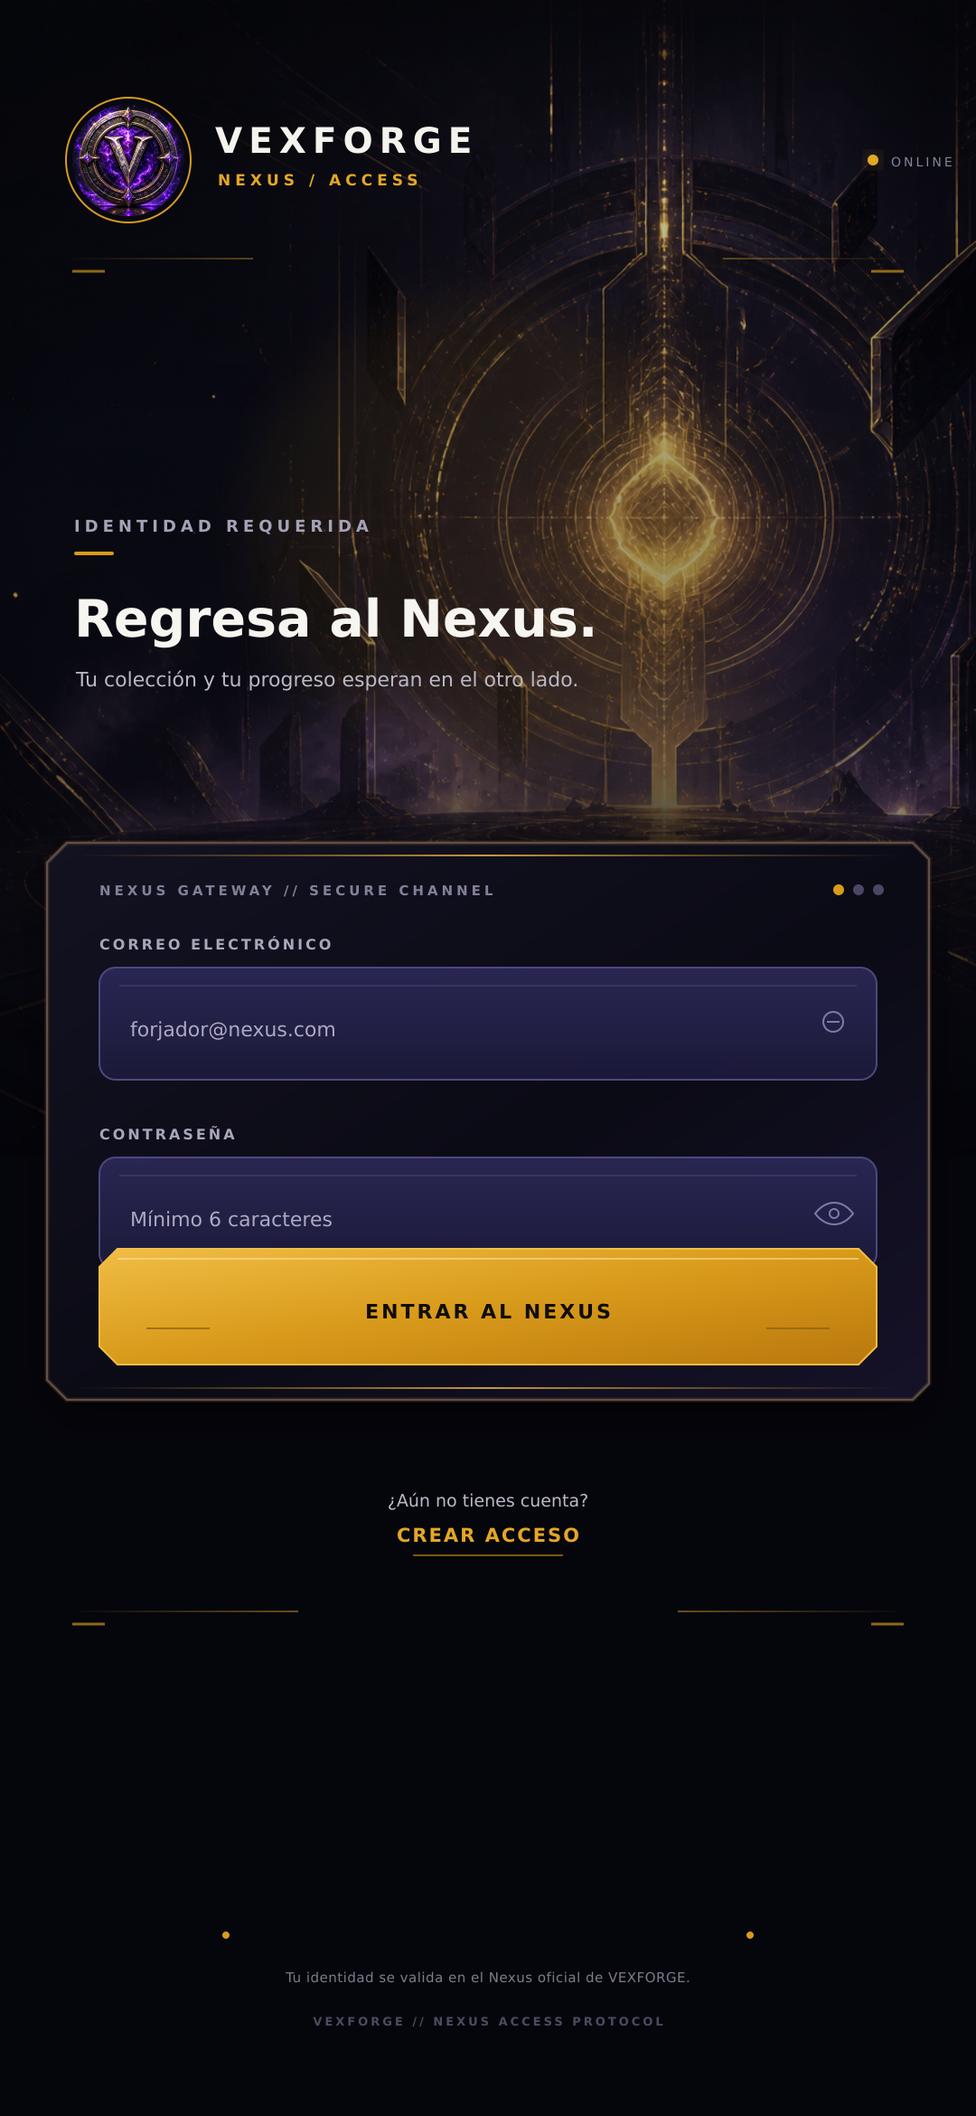
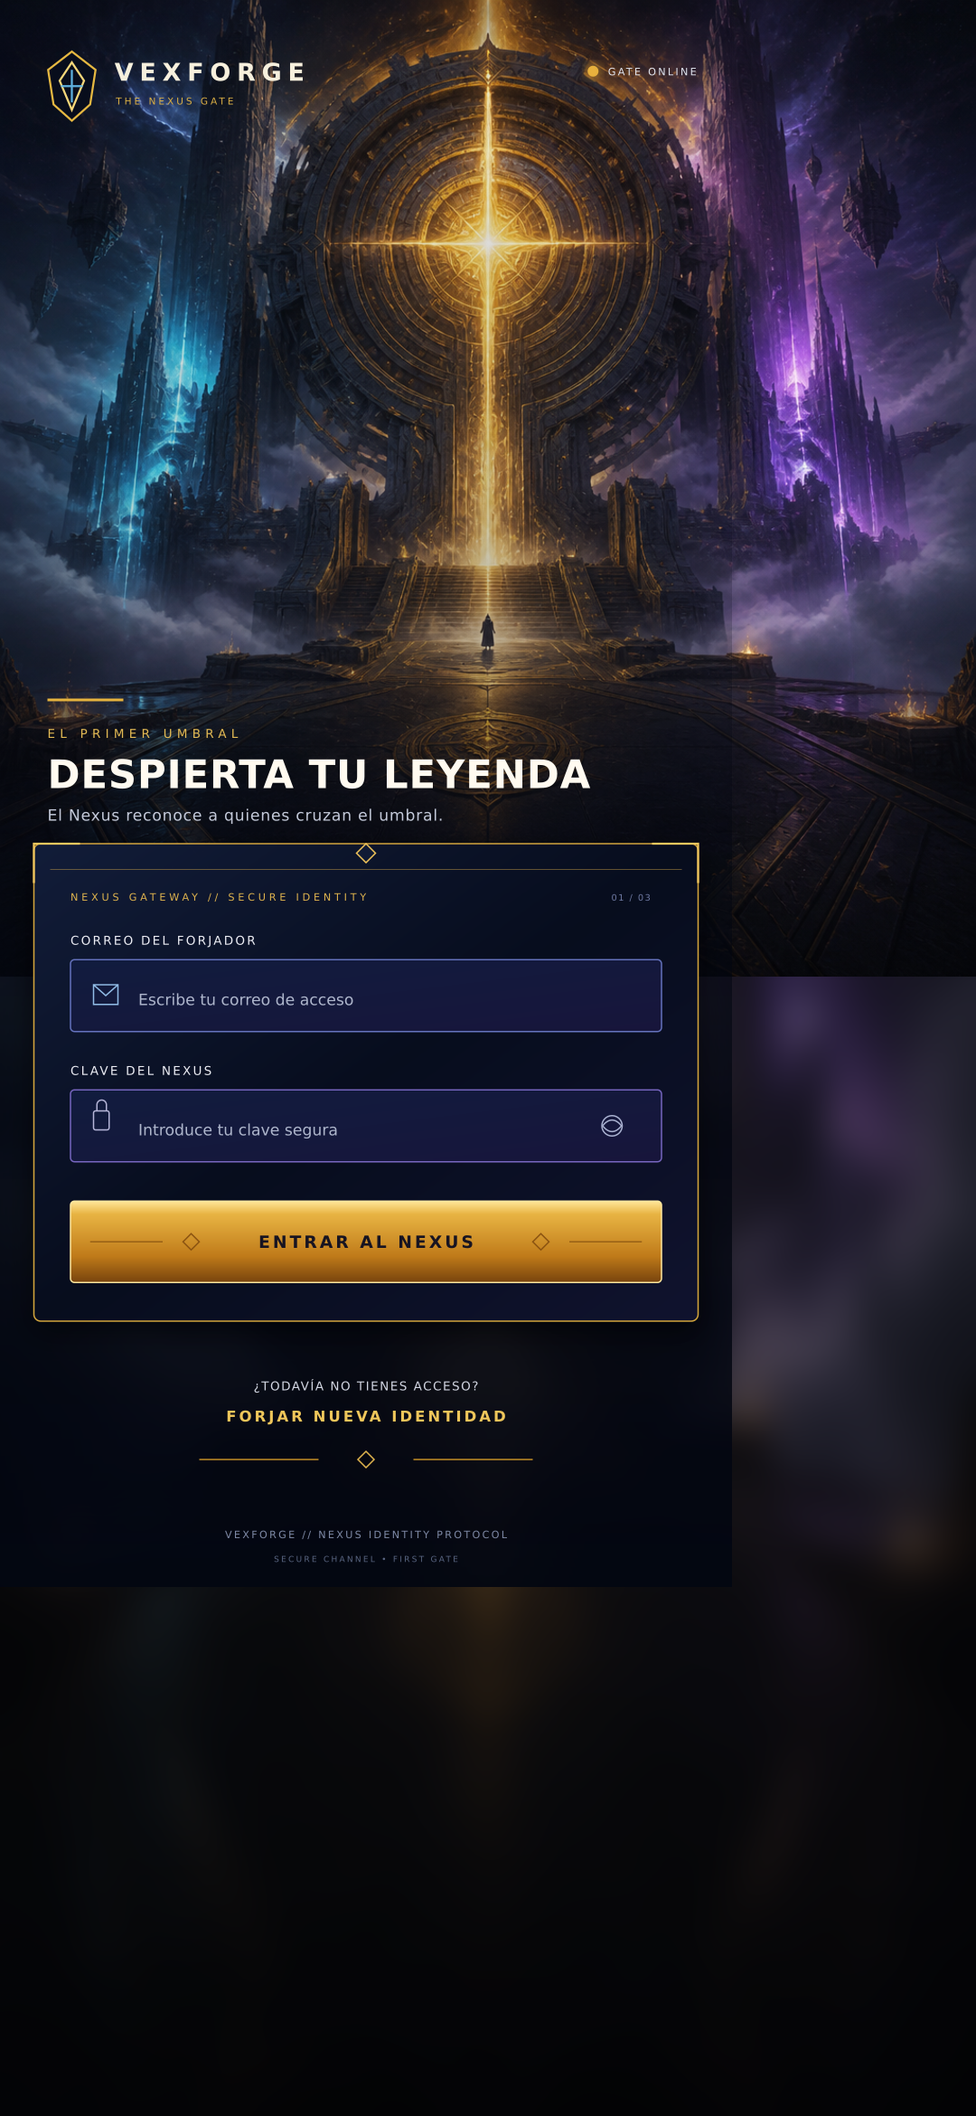
[skip ci] VEXFORGE native Home scene and official Auth visual sync

diff --git a/mobile/app/auth.tsx b/mobile/app/auth.tsx
@@ -155,12 +155,12 @@ export default function AuthScreen() {
                   <Text style={[styles.brandCode, { color: colors.accent }]}>NEXUS / ACCESS</Text>
                 </View>
               </View>
-              <Text style={[styles.eyebrow, { color: colors.accent }]}>SECURE ENTRY / AUTH</Text>
+              <Text style={[styles.eyebrow, { color: colors.accent }]}>NEXUS GATEWAY / SECURE IDENTITY</Text>
               <Text style={[styles.title, { color: colors.foreground }]}>
-                {mode === 'signin' ? 'Regresa al Nexus.' : 'Forja tu identidad.'}
+                {mode === 'signin' ? 'Despierta tu leyenda.' : 'Forja tu identidad.'}
               </Text>
               <Text style={[styles.subtitle, { color: colors.mutedForeground }]}>
-                {mode === 'signin' ? 'Tu colección y tu progreso esperan al otro lado.' : 'Registra un Forjador para comenzar tu recorrido.'}
+                {mode === 'signin' ? 'El Nexus reconoce a quienes cruzan el umbral.' : 'Registra un Forjador para comenzar tu recorrido.'}
               </Text>
               <View
                 testID="auth-status-rail"
@@ -178,7 +178,7 @@ export default function AuthScreen() {
             </View>
 
             <View style={styles.form} accessibilityLabel="Acciones de acceso de VEXFORGE">
-              <Text style={[styles.fieldLabel, { color: colors.mutedForeground }]}>CORREO ELECTRÓNICO</Text>
+               <Text style={[styles.fieldLabel, { color: colors.mutedForeground }]}>CORREO DEL FORJADOR</Text>
               <TextInput
                 testID="auth-email"
                 accessibilityLabel="Correo electrónico"
@@ -191,7 +191,7 @@ export default function AuthScreen() {
                 autoCorrect={false}
                 keyboardType="email-address"
                 textContentType="emailAddress"
-                placeholder="forjador@ejemplo.com"
+                 placeholder="Escribe tu correo de acceso"
                 placeholderTextColor={`${colors.mutedForeground}99`}
                 style={[styles.emailInput, { color: colors.foreground, backgroundColor: `${colors.panelStrong}F2`, borderColor: `${colors.accent}42` }]}
                 editable={!authLoading}
@@ -199,7 +199,7 @@ export default function AuthScreen() {
                 selectionColor={colors.accent}
               />
 
-              <Text style={[styles.fieldLabel, { color: colors.mutedForeground }]}>CONTRASEÑA</Text>
+               <Text style={[styles.fieldLabel, { color: colors.mutedForeground }]}>CLAVE DEL NEXUS</Text>
               <TextInput
                 testID="auth-password"
                 accessibilityLabel="Contraseña"
@@ -212,7 +212,7 @@ export default function AuthScreen() {
                 autoCorrect={false}
                 secureTextEntry={!showPassword}
                 textContentType="password"
-                placeholder="Mínimo 6 caracteres"
+                 placeholder="Introduce tu clave segura"
                 placeholderTextColor={`${colors.mutedForeground}99`}
                 style={[styles.passwordInput, { color: colors.foreground, backgroundColor: `${colors.panelStrong}F2`, borderColor: `${colors.accent}42` }]}
                 editable={!authLoading}

diff --git a/mobile/app/(tabs)/index.tsx b/mobile/app/(tabs)/index.tsx
@@ -21,7 +21,6 @@ import { ScreenShell } from '@/components/ScreenShell';
 import { ForgeIconName, VexIcon } from '@/components/ForgeIcon';
 import { getCardIdentityVisual } from '@/constants/cardIdentity';
 import { DOMAIN_IDENTITY, DEPTH, MOTION, VISUAL_TOKENS } from '@/constants/experience';
-import { CANONICAL_BACKGROUNDS } from '@/constants/visual';
 import { useColors } from '@/hooks/useColors';
 import { useGame } from '@/context/GameContext';
 import {
@@ -665,9 +664,6 @@ export default function ForgeScreen() {
   const homeIdentity = DOMAIN_IDENTITY.foja;
   const orbitReveal = MOTION.reveal;
   const orbitDepth = DEPTH.surface;
-  const homeSceneAsset = CANONICAL_BACKGROUNDS.home;
-  const homeSceneSource = typeof homeSceneAsset === 'string' ? { uri: homeSceneAsset } : homeSceneAsset;
-
   const navigate = (route: HomeRoute) => {
     void Haptics.selectionAsync().catch(() => undefined);
     if (route === '/') router.replace('/');
@@ -701,12 +697,14 @@ export default function ForgeScreen() {
         >
            <View style={[styles.heroStage, { backgroundColor: identityVisual?.overlay ?? colors.ink, height: heroHeight }]}>
              <View pointerEvents="none" style={styles.heroSceneViewport}>
-               {homeSceneSource ? (
+               {identityCard?.image_url && identityAssetState !== 'error' ? (
                  <Animated.Image
-                   source={homeSceneSource}
-                   style={[styles.heroSceneReference, heroParallaxStyle]}
+                   source={{ uri: identityCard.image_url }}
+                   style={[styles.heroIdentityBackdrop, heroParallaxStyle]}
                    resizeMode="cover"
-                   accessibilityLabel="Escena aprobada de referencia visual del Home"
+                   accessibilityLabel="Artwork canónico de la identidad integrado en la escena viva del Home"
+                   onLoad={() => setIdentityAssetState('ready')}
+                   onError={() => setIdentityAssetState('error')}
                  />
                ) : null}
                <Animated.View style={[styles.heroSceneAtmosphere, sceneAtmosphereStyle]}>
@@ -1207,7 +1205,7 @@ const styles = StyleSheet.create({
   scrollContent: { gap: 0 },
   heroStage: { overflow: 'hidden', position: 'relative' },
   heroSceneViewport: { ...StyleSheet.absoluteFillObject, overflow: 'hidden' },
-  heroSceneReference: { height: '112%', left: '-6%', position: 'absolute', top: '-6%', width: '112%' },
+  heroIdentityBackdrop: { height: '124%', left: '-26%', opacity: 0.34, position: 'absolute', top: '-14%', width: '152%' },
   heroSceneAtmosphere: { borderRadius: 220, height: 360, position: 'absolute', right: -154, top: 52, width: 360 },
   heroSceneMist: { bottom: -80, height: 360, left: -80, position: 'absolute', width: '120%' },
   identityStage: { bottom: 36, borderBottomLeftRadius: 148, borderTopLeftRadius: 148, borderWidth: 1, borderRightWidth: 0, height: 432, overflow: 'hidden', position: 'absolute', right: -36, width: 286, zIndex: 1 },

diff --git a/mobile/constants/visual.ts b/mobile/constants/visual.ts
@@ -19,7 +19,9 @@ export const OFFICIAL_ASSETS = {
 } as const;
 
 export const CANONICAL_BACKGROUNDS = {
-  home: require('../assets/images/home-reference-scene.png'),
+  // Home is a native scene. Its approved reference remains in the registry,
+  // while the runtime uses live identity artwork plus authored depth layers.
+  home: null,
   auth: require('../assets/images/vexforge-auth-nexus-final.png'),
   pvp: null,
   missions: null,

diff --git a/CONTINUITY.md b/CONTINUITY.md
@@ -1,3 +1,19 @@
+## 2026-09-15 — VE-MOB-AUTH + VE-MOB-3 HOME — OFFICIAL VISUAL SYNC / IMPLEMENTED_UNVERIFIED
+
+- **ENTORNO ACTIVO:** aplicación Android en `mobile/**`; la web permanece congelada.
+- **AUTORIDAD:** fila `ACTIVE` `public.vexforge_official_documents / vexforge_home_world_system_protocol_v3`, versión V2.3, consultada por HTTPS; hash de contenido registrado en el Asset Registry.
[1 lines of base64/hex data omitted]
+- **AUTH IMPLEMENTACIÓN:** `CANONICAL_BACKGROUNDS.auth` continúa conectado al runtime y `auth.tsx` conserva controles nativos reales: Supabase Auth, registro, recuperación, OAuth, recordar sesión, show/hide password, feedback, teclado, safe area y navegación. El copy visible se alineó con la referencia aprobada sin convertirla en un control estático.
[1 lines of base64/hex data omitted]
+- **HOME IMPLEMENTACIÓN:** Home ahora sigue literalmente la ley del protocolo: escena nativa viva con `Animated.Image` del artwork canónico de la identidad cargado desde Supabase Storage, parallax limitado, atmósfera, niebla, órbita, pulso, identidad/carta vivas y controles nativos conectados a datos de Supabase y rutas reales. No hay captura estática ni hotspots transparentes.
+- **REGLA CERO GENÉRICOS:** no se añadieron métricas, rutas, cartas, rewards, RPCs, fondos remotos ni resultados ficticios. Los estados no reportados permanecen explícitos.
+- **REGISTRO:** se actualizaron `docs/VE-T0-ANDROID-ASSET-REGISTRY.json`, `docs/visual-assets/vexforge-auth-screen-legendary-1080x2340.md` y `docs/visual-assets/vexforge-home-screen-official.md`; `CANONICAL_BACKGROUNDS.home` queda nulo para impedir el montaje accidental de la referencia.
+- **QA HONESTA:** `IMPLEMENTED_UNVERIFIED`; no hay evidencia física nueva de APK, dispositivo/emulador, teclado, safe area, taps, navegación o rendimiento.
+- **RELEASE GATE:** no se compiló APK, no se inició el workflow Android y no se publicó release, conforme a la instrucción del operador.
+- **PERSISTENCIA:** el cambio se publicará en `main` como un commit mediante GitHub REST/Data API sobre HTTPS, sin credenciales en URLs ni `git push`.
+
+---
+
 ## 2026-09-15 — VE-MOB-VISUAL — HOME VERTICAL REFERENCE / BLOCKED BY GENERATOR DIMENSION
 
 - **ENTORNO ACTIVO:** aplicación Android en `mobile/**`; la web permanece congelada.

diff --git a/docs/VE-MOB-VISUAL-DIMENSION-AUDIT-2026-09-15.md b/docs/VE-MOB-VISUAL-DIMENSION-AUDIT-2026-09-15.md
@@ -12,7 +12,7 @@ Auth y Home están funcionando como rutas Android, pero sus assets locales de es
 | Superficie | Consumidor activo | Dimensión medida | Dimensión esperada | Resultado |
 |---|---|---:|---:|---|
 | Auth | `CANONICAL_BACKGROUNDS.auth` → `auth-reference-scene.png` → `ScreenShell` | `1024 × 1024` | `1080 × 2340` | **No conforme; recorte horizontal severo** |
-| Home | `CANONICAL_BACKGROUNDS.home` → `home-reference-scene.png` → `index.tsx` hero | `1024 × 1024` | referencia `1080 × 2340`; hero actual responsive | **No conforme como escena full-frame; recorte intencional de hero** |
+| Home | `index.tsx` native hero → live identity artwork + authored layers | variable Storage artwork | responsive native composition | **Conforme al protocolo; approved PNG retained as reference only** |
 | Auth alternativa | `vexforge-auth-nexus-final.png` | `1080 × 2340` | `1080 × 2340` | **Correcta en dimensión, no consumida** |
 
 ## Auth — causa exacta
@@ -25,9 +25,15 @@ Existe `mobile/assets/images/vexforge-auth-nexus-final.png` con `1080 × 2340`, 
 
 ## Home — causa exacta
 
-`mobile/app/(tabs)/index.tsx` toma `CANONICAL_BACKGROUNDS.home` y monta el asset en `Animated.Image` dentro de `heroSceneViewport`, con `resizeMode="cover"`. El hero calcula una altura responsive limitada a aproximadamente `570–640 px` y aplica un estilo de escena de `112%` con desplazamiento/parallax.
+`mobile/app/(tabs)/index.tsx` ya no toma `CANONICAL_BACKGROUNDS.home` ni monta
+`home-reference-scene.png`. El hero calcula una altura responsive limitada a
+aproximadamente `570–640 px` y compone la escena con artwork vivo de la
+identidad, gradientes, trazos, atmósfera y parallax limitado.
 
-El archivo activo `home-reference-scene.png` es cuadrado (`1024 × 1024`). En el hero, `cover` conserva el alto del viewport y recorta lateralmente; el `112%` amplía aún más el recorte. Esto explica por qué la pantalla puede funcionar y verse llena, pero no coincide con una escena Android completa de `1080 × 2340`.
+`home-reference-scene.png` permanece registrado como referencia visual aprobada
+de `1024 × 1024`, pero no es una superficie runtime. Por eso no se corrige
+forzando una dimensión vertical ni se deforma la referencia para llenar el
+dispositivo.
 
 Home no es actualmente un fondo full-screen: es una composición nativa desplazable con hero, gradientes, portales, actividad y datos vivos. Por tanto, corregir sólo el tamaño del PNG no resolvería por sí solo la equivalencia visual; habría que decidir si el contrato sigue siendo hero recortado o si se promueve una escena vertical completa y se remaqueta el hero.
 

diff --git a/docs/VE-T0-ANDROID-ASSET-MATRIX.md b/docs/VE-T0-ANDROID-ASSET-MATRIX.md
@@ -6,8 +6,8 @@
 **Entorno activo:** Android en `mobile/**`
 **Baseline observado:** `main` en `624007bb732b40c186495f0a3aab2d872ed86e0f`
 **Fuente activa reconciliada:** `public.vexforge_official_documents`
-(`vexforge_home_world_system_protocol_v3`, `ACTIVE`, V2.2)
[1 lines of base64/hex data omitted]
+(`vexforge_home_world_system_protocol_v3`, `ACTIVE`, V2.3)
[1 lines of base64/hex data omitted]
 
 ## 1. Autoridad y regla de cero genéricos
 
@@ -47,7 +47,7 @@ consumo automático.
 | `mobile/assets/images/decks-reference-scene.png` | Escena de formación | `CANON_ACTIVE` | Deck | `VEXFORGE-ASSET-ATLAS.md` |
 | `mobile/assets/images/profile-reference-scene.png` | Escena de identidad | `CANON_ACTIVE` | Profile | `VEXFORGE-ASSET-ATLAS.md` |
 | `docs/visual-assets/vexforge-profile-screen-premium-1080x2340.png` | Referencia visual Profile aprobada por el operador | `REVIEW_REQUIRED` | Profile | `docs/visual-assets/vexforge-profile-screen-premium-1080x2340.md`, registro T0 |
-| `mobile/assets/images/home-reference-scene.png` | Escena de referencia visual y fondo del hero funcional | `CANON_ACTIVE` | Home | `mobile/app/(tabs)/index.tsx`, `mobile/constants/visual.ts`, `VEXFORGE-ASSET-ATLAS.md` |
+| `mobile/assets/images/home-reference-scene.png` | Referencia visual aprobada; no se monta como fondo runtime | `RESERVED_SURFACE_ART` | Home | `docs/VE-MOB-3-HOME.md`, `docs/visual-assets/vexforge-home-screen-official.md` |
 | `mobile/assets/images/icon.jpg` | Referencia de estilo heredado | `AVAILABLE_UNASSIGNED` | Compartido | `VEXFORGE-ASSET-ATLAS.md` |
 | `mobile/assets/images/collection-reference-scene.png` | Asset local sin asignación explícita en el atlas | `REVIEW_REQUIRED` | Collection | inventario de repositorio; requiere decisión de consumidor |
 | `mobile/assets/images/deck-forge-scene.jpg` | Asset local sin asignación explícita en el atlas | `REVIEW_REQUIRED` | Deck / Forge | inventario de repositorio; requiere decisión de consumidor |

diff --git a/docs/VE-MOB-3-HOME.md b/docs/VE-MOB-3-HOME.md
@@ -1,10 +1,14 @@
-Vigencia del contrato: desde el 2026-09-13, la referencia PNG descrita abajo queda como evidencia histórica del Home anterior. El consumidor Android vigente es una composición nativa en `mobile/app/(tabs)/index.tsx`; no monta el PNG ni usa hotspots transparentes. La escena se construye dentro del mismo lienzo del Home con gradientes, trazos y el artwork canónico de la identidad cargado desde Supabase Storage; los datos y contratos siguen viniendo de Supabase.
+Vigencia del contrato: desde el 2026-09-15, `home-reference-scene.png` queda
+como evidencia visual histórica y referencia aprobada del Home anterior. El
+consumidor Android vigente es una composición nativa en
+`mobile/app/(tabs)/index.tsx`; no monta el PNG ni usa hotspots transparentes.
+La escena se construye dentro del mismo lienzo del Home con gradientes, trazos,
+órbitas, atmósfera y el artwork canónico vivo de la identidad cargado desde
+Supabase Storage; los datos y contratos siguen viniendo de Supabase.
 
-Referencia visual vigente: `mobile/assets/images/home-reference-scene.png`
-mide `1080×2340`, PNG RGB/sRGB, proporción `9:19.5`. La imagen se muestra
-como composición completa del Inicio; los recursos superiores no se pintan
-como una segunda capa y sólo quedan hotspots transparentes sobre las acciones
-visibles de la referencia.
+Referencia visual aprobada: `mobile/assets/images/home-reference-scene.png`
+mide `1024×1024`, PNG RGB/sRGB. Se conserva para revisión visual y procedencia;
+no es un fondo runtime ni una superficie interactiva.
 
 # VE-MOB-3 — HOME
 

diff --git a/docs/VEXFORGE-ASSET-ATLAS.md b/docs/VEXFORGE-ASSET-ATLAS.md
@@ -12,7 +12,7 @@ Estos assets ya tienen un consumidor real en Android o forman parte del registro
 | Asset | Superficie | Rol |
 |---|---|---|
 | `mobile/assets/images/vexforge-home-hero.png` | Home | Ancla de escena |
-| `mobile/assets/images/home-reference-scene.png` | Home | Escena de referencia visual aprobada y base del hero funcional |
+| `mobile/assets/images/home-reference-scene.png` | Home | Referencia visual aprobada; no se monta como fondo runtime |
 | `mobile/assets/images/vexforge-hero-sentinel.png` | Home | Personaje/elemento de primer plano |
 | `mobile/assets/images/vexforge-feature-card.png` | Home | Carta destacada |
 | `mobile/assets/images/vexforge-auth-nexus-final.png` | Auth / Nexus | Escena vertical oficial de acceso |
@@ -38,8 +38,10 @@ Los assets de esta lista conservan el estado `AVAILABLE_UNASSIGNED` hasta que
 una composición los seleccione. Sólo pasan a producción después de una decisión
 explícita, validación de procedencia y registro en el consumidor real. La
 disponibilidad en Storage no equivale a una obligación de consumo. La escena
-`home-reference-scene.png` dejó esta lista al ser aprobada como la base visual
-del Home y registrada como `CANON_ACTIVE`.
+`home-reference-scene.png` se conserva como referencia visual aprobada para
+comparar el Home. El runtime Android no la monta como fondo; la composición
+viva usa datos reales, artwork de identidad autorizado y capas authored. La
+entrada no autoriza una sustitución estática ni hotspots.
 
 ## 2. Prioridad de selección para nuevas composiciones
 

diff --git a/docs/visual-assets/vexforge-home-screen-official.md b/docs/visual-assets/vexforge-home-screen-official.md
@@ -1,0 +1,13 @@
+# VEXFORGE Home / Nexus — Official Visual Reference
+
+- **Estado:** `APPROVED_REFERENCE / IMPLEMENTED_UNVERIFIED`
+- **Superficie:** Android Home / Nexus
+- **Archivo de referencia:** `mobile/assets/images/home-reference-scene.png` (no runtime)
+- **Dimensiones:** `1024 × 1024`
[1 lines of base64/hex data omitted]
+- **Procedencia:** referencia Home aprobada y registrada en el Asset Registry.
+- **Autoridad:** `public.vexforge_official_documents / vexforge_home_world_system_protocol_v3`, estado `ACTIVE`, versión `V2.3`.
+
+La escena representa la citadel de mando, núcleo de forja y portales de dominio exigidos por el perfil Nexus / Home. Es una referencia visual aprobada para comparación, no una textura runtime. El runtime la interpreta mediante una composición nativa con artwork vivo de la identidad, parallax acotado, atmósfera, niebla, pulso del núcleo, carta viva, identidad viva, estados explícitos y controles nativos conectados a datos de Supabase y rutas reales.
+
+La pantalla conserva datos vivos de Supabase, refresh, haptics, reduced-motion, estados `loading/partial/error`, navegación hacia Arena, Forja, Archivo, Mundo, Misiones, Economía, Perfil, Tutorial y Meta, y fallbacks honestos cuando un registro o asset no está disponible. La equivalencia física en APK queda pendiente de QA.

diff --git a/docs/VE-T0-ANDROID-SCREEN-MASTER-RECORDS.md b/docs/VE-T0-ANDROID-SCREEN-MASTER-RECORDS.md
@@ -94,11 +94,12 @@ QA visual/táctil ni evidencia de APK de esta unidad.
 - **Ruta:** `/(tabs)/`; fuente primaria: `mobile/app/(tabs)/index.tsx`.
 - **Sujeto:** citadel, núcleo de forja, portales y actividad viva; debe leerse
   como entrada a un juego y no como dashboard.
-- **Assets:** `home-reference-scene.png` es la escena visual aprobada y base del
-  hero funcional; `vexforge-home-hero.png`, `vexforge-hero-sentinel.png` y
-  `vexforge-feature-card.png` siguen disponibles como assets canónicos
-  complementarios; el logo y facciones usan Storage oficial cuando están
-  disponibles.
+- **Assets:** `home-reference-scene.png` es la referencia visual aprobada, no un
+  fondo runtime; la escena funcional usa artwork canónico vivo de la identidad
+  desde Storage y capas authored de entorno. `vexforge-home-hero.png`,
+  `vexforge-hero-sentinel.png` y `vexforge-feature-card.png` no se consumen
+  automáticamente sin una decisión de consumidor; el logo y facciones usan
+  Storage oficial cuando están disponibles.
 - **Calidad visual:** la escena se compone como viewport centrado con capas de
   entorno, atmósfera, entidad y primer plano interactivo. El asset aprobado no
   se monta sobre otra escena ni actúa como poster estático: respira con deriva

diff --git a/docs/visual-assets/vexforge-auth-screen-legendary-1080x2340.md b/docs/visual-assets/vexforge-auth-screen-legendary-1080x2340.md
@@ -1,0 +1,14 @@
+# VEXFORGE Auth / Nexus Access — Official Visual Reference
+
+- **Estado:** `CANON_ACTIVE / IMPLEMENTED_UNVERIFIED`
+- **Superficie:** Android Auth / Nexus Access
+- **Archivo runtime:** `mobile/assets/images/vexforge-auth-nexus-final.png`
+- **Dimensiones:** `1080 × 2340`
+- **Formato:** PNG RGB
[1 lines of base64/hex data omitted]
+- **Procedencia:** referencia visual proporcionada por el operador en la sesión de sincronización visual.
+- **Autoridad:** `public.vexforge_official_documents / vexforge_home_world_system_protocol_v3`, estado `ACTIVE`, versión `V2.3`.
+
+La imagen fija el lenguaje visual de entrada al Nexus: citadel, núcleo de forja, cyan y oro, profundidad atmosférica, marco diegético y jerarquía de acceso. No sustituye los controles nativos. Auth continúa renderizando `TextInput`, `Pressable`, estados de enlace, recuperación, OAuth, recordar sesión, teclado, safe area y navegación de sesión sobre el contrato vivo de Supabase.
+
+La validación física en APK, dispositivo y matriz visual queda abierta hasta disponer de evidencia de instalación y recorrido táctil.
